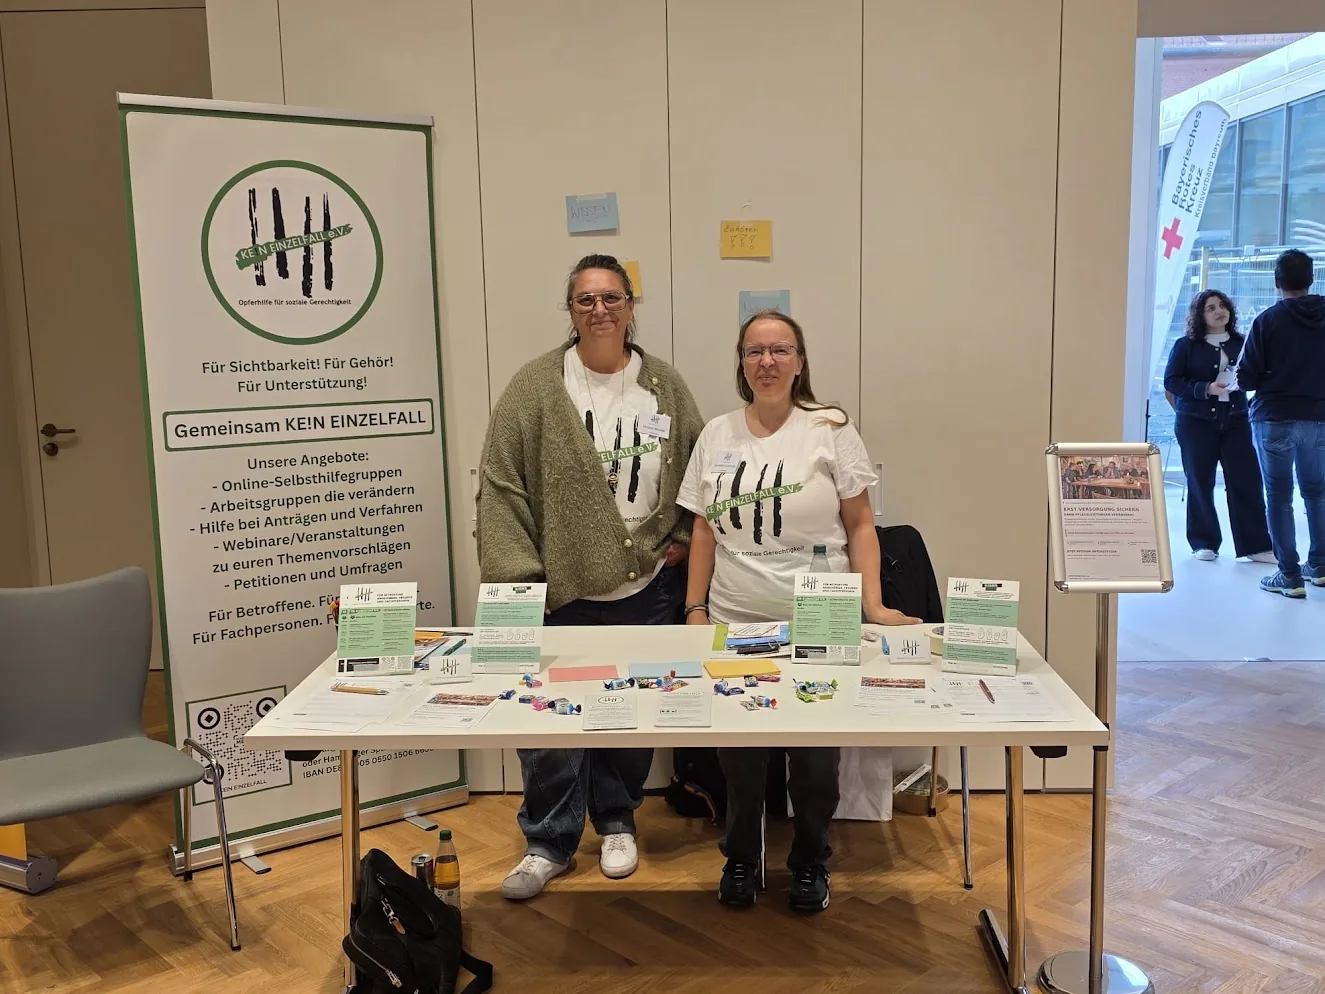
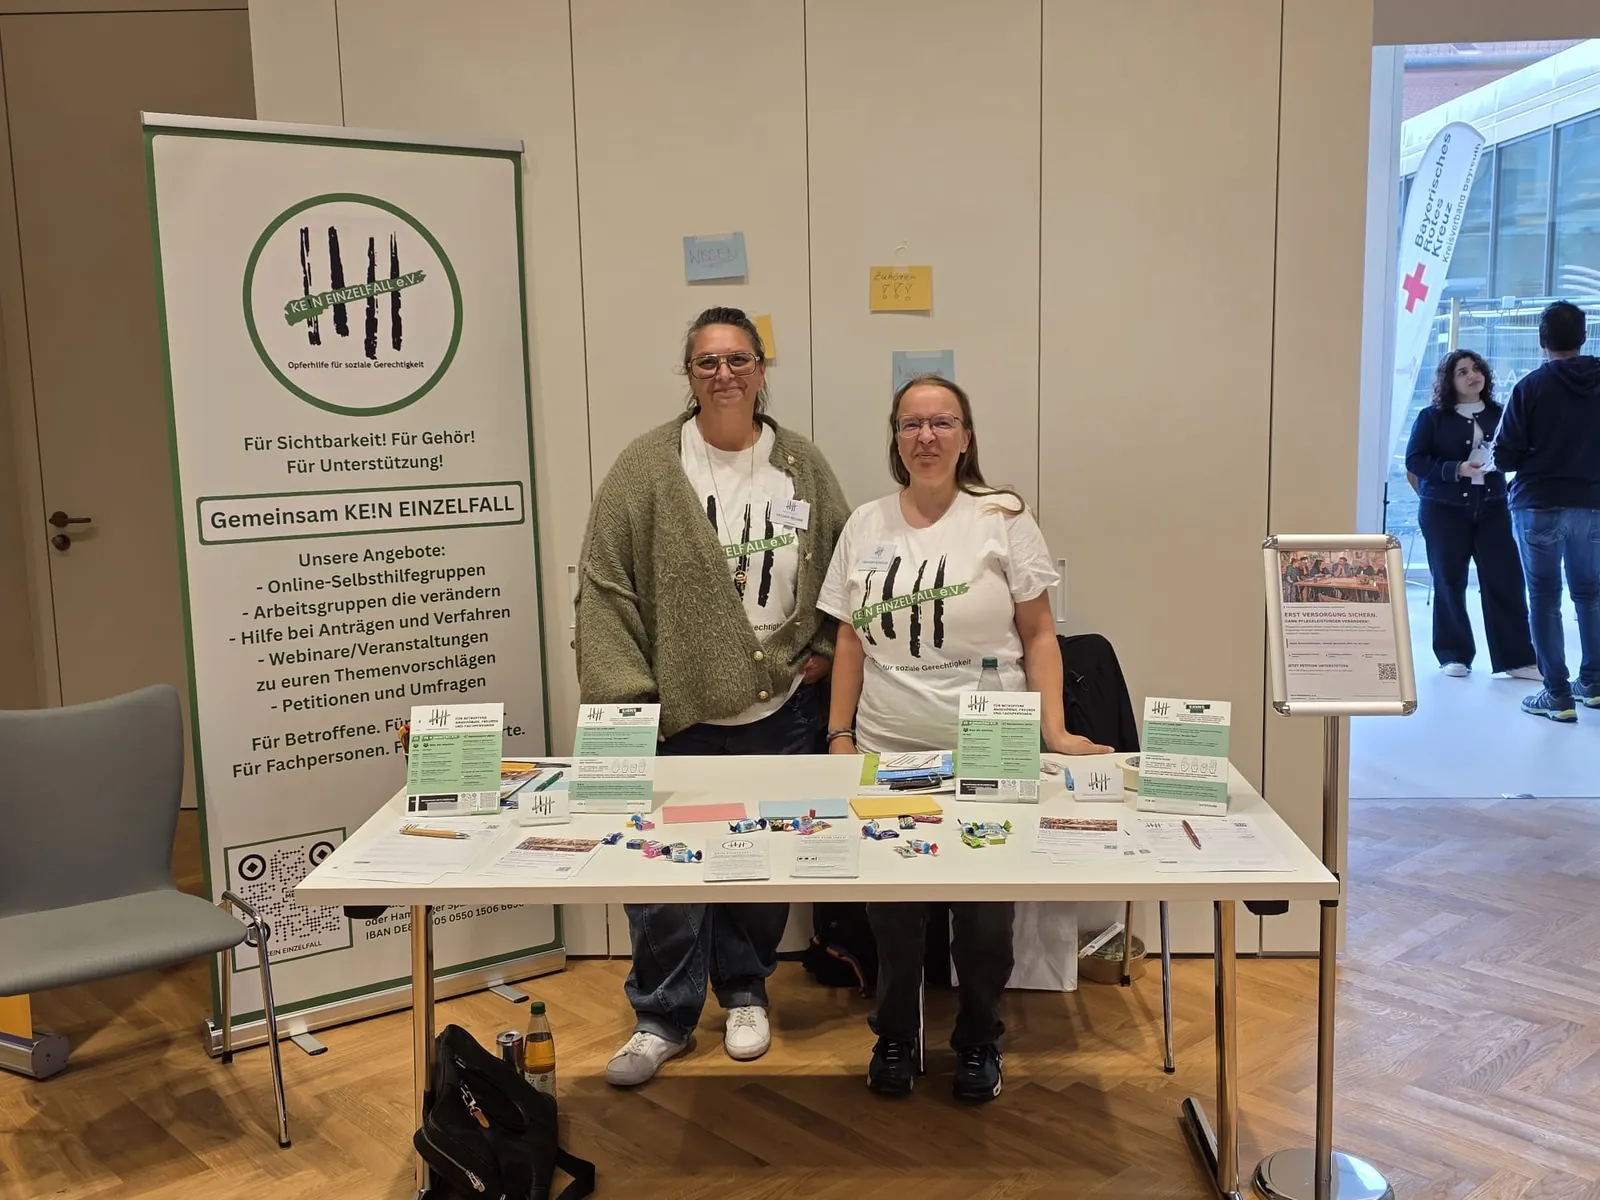
Bayreuth: Fotos aus dem Drive in voller Aufloesung (KEV-134)
- Taddis Drive-Ordner "Bayreuth": dieselben drei Fotos wie bisher, aber
  als Originale (JPG 2000 px, zwei iPhone-HEIC 4284 x 5712) statt
  Bildschirmfotos. Gleiche Dateinamen, keine Migration noetig.
  Standfoto 1600 px, Hochformate 1000 x 1333 px, webp, ohne
  Metadaten (Kamera, Uhrzeit, Standort).
- Datum geklaert: Die iPhone-Fotos sind am 10.10.2026 aufgenommen
  (12:56 und 15:35 Uhr). Eingetragen war schon der 10.10.2026, das
  Ticket nennt weiter 2025. Rueckfrage in der Checkliste ist jetzt nur
  noch ein Hinweis.
- Text unveraendert, der Dank in Anfuehrungszeichen war schon fett.
- Test: Masse der Fotos.
  Tests: 502 PHP, Browser, 64 a11y-Durchlaeufe gruen.

diff --git a/database/seeders/OeffentlichkeitsarbeitSeeder.php b/database/seeders/OeffentlichkeitsarbeitSeeder.php
@@ -49,13 +49,14 @@ class OeffentlichkeitsarbeitSeeder extends Seeder
 
     /**
      * Ehrenamtsmesse Bayreuth (KEV-134): Taddis Text, der Satz in
-     * Anführungszeichen fett, drei Fotos vom Stand (von Kevin).
+     * Anführungszeichen fett, drei Fotos vom Stand. Seit dem 22.10.2026 aus
+     * Taddis Drive-Ordner „Bayreuth“ in voller Auflösung, ohne Metadaten
+     * (vorher Bildschirmfotos davon).
      *
      * Datum 10.10.2026, nicht 10.10.2025 wie in der Überschrift des Tickets:
      * Die Freiwilligen-Messe Bayreuth war am Samstag, 10.10.2026, im
-     * Friedrichsforum (Gemeinde Bindlach, Mainwelle); der 10.10.2025 war ein
-     * Freitag, eine Messe gab es da nicht. Taddis Vorlage nennt 2026 in der
-     * Zwischenzeile. Rückfrage in der Übergabe-Checkliste.
+     * Friedrichsforum (Gemeinde Bindlach, Mainwelle), und die iPhone-Fotos im
+     * Drive sind am 10.10.2026 um 12:56 und 15:35 Uhr aufgenommen.
      *
      * Die Bildbeschreibungen sind von uns und nennen keine Namen: Wer auf
      * welchem Foto steht, wissen wir nicht sicher.

diff --git a/tests/Feature/OeffentlichkeitsarbeitTest.php b/tests/Feature/OeffentlichkeitsarbeitTest.php
@@ -74,7 +74,8 @@ class OeffentlichkeitsarbeitTest extends TestCase
         }
 
         // Maße am Bild, damit die Seite beim Laden nicht springt
-        $this->assertStringContainsString('width="745" height="994"', $html);
+        // Seit dem Drive-Ordner die Originale (1000 × 1333 statt 745 × 994)
+        $this->assertStringContainsString('width="1000" height="1333"', $html);
         $this->assertStringContainsString('Weitere Fotos', $html);
 
         // Brotkrumen zurück zur Übersicht

diff --git a/docs/Uebergabe-Checkliste.md b/docs/Uebergabe-Checkliste.md
@@ -374,12 +374,11 @@ Es läuft, aber an diesen Stellen fehlt eine Entscheidung des Vereins.
   Text und allen Fotos, z. B. /oeffentlichkeitsarbeit/ehrenamtsmesse-bayreuth-2026.
   Neue Messen (und später Petitionen und Presse) legt der Verein im Panel
   unter **„Öffentlichkeitsarbeit“** an, Fotos lädt er dort selbst hoch. Erste
-  Messe: Ehrenamtsmesse Bayreuth mit drei Fotos. Zu klären:
+  Messe: Ehrenamtsmesse Bayreuth mit drei Fotos (aus Taddis Drive, volle
+  Auflösung). Zu klären:
   - **Datum:** Im Ticket steht 10.10.2025, eingetragen ist der **10.10.2026**.
-    Die Freiwilligen-Messe Bayreuth war am Samstag, 10.10.2026, im
-    Friedrichsforum; der 10.10.2025 war ein Freitag, da gab es keine. Taddis
-    Vorlage nennt 2026 in der Zwischenzeile. Bitte bestätigen, im Panel sonst
-    einfach ändern (die Adresse endet dann trotzdem auf -2026).
+    Das ist geklärt: Die Fotos im Drive sind am 10.10.2026 aufgenommen, und an
+    dem Samstag war die Freiwilligen-Messe Bayreuth. Nur zur Info für Taddi.
   - **Bildbeschreibungen** der drei Fotos sind von uns und nennen bewusst
     keine Namen. Wenn der Verein sagen möchte, wer zu sehen ist: im Panel beim
     Foto ergänzen.
